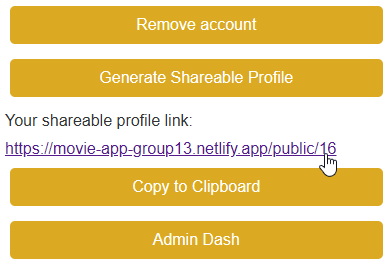
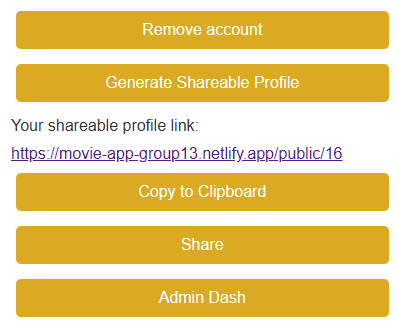
add: readme readme tbale content

diff --git a/frontend/src/pages/Profile.js b/frontend/src/pages/Profile.js
@@ -142,6 +142,7 @@ const Profile = () => {
     };
 
     const generateShareableLink = () => {
+        console.log("GENERATE CLICKED")
         if (!userDatabaseInfo[0]?.id) {
             alert("Unable to generate shareable link.");
             return;
@@ -162,6 +163,8 @@ const Profile = () => {
     };
         
     const saveShareableLinkToBackend = async () => {
+        console.log("SAVE CLICKED")
+
         const { user_id } = userDatabaseInfo[0] || {};
         if (!shareableLink || !user_id) return alert("Unable to save shared URL.");
     

diff --git a/README.md b/README.md
@@ -328,11 +328,18 @@ After generating the link, your sharable url will be shown.
 
 Any person with this link can see your public favorites (logged in or out).
 
+![Sharing Favorites Share - Generated](docs/assets/sharing-favorites/sharing-favorites-share.png)
+
+
+To add the profile to the shared URL's page, the share button must be clicked
+
 ![Sharing Favorites - Public](docs/assets/sharing-favorites/sharing-favorites-public.png)
 
 Public Profiles page:
 
-To view all public profiles list, visit the public profiles page.
+To view all public profiles list, visit the Shared URLs page, this can be accessed both logged in and out.
+
+![Sharing Favorites - Public](docs/assets/sharing-favorites/sharing-favorites-page.png)
 
 ## Optional feature - Admin page
 
@@ -424,6 +431,22 @@ This allowed us to deploy from one branch, and use team members forks and pull r
 
 ## Overall project management and progress
 
+The team stayed on progress by first having a kick off meeting where the following was decided (notes from meetings can be found in docs/note):
+
+1. Target grade
+2. Previous project experience and lessons learned
+3. Tech stack we will use
+4. Role assignments
+5. Project management risks and mitigations
+6. Weekly meeting schedule
+
+We decided a minimum of 3 weekly meetings were required along with a good use of web messaging and github communication.
+
+- Monday meeting: Talk through the weeks tasks and priorities and prepare for mentor meeting
+- Mentor meeting: Talk through progress, blockers and ensure all requirements are understood and worked towards effectively
+- Check up meeting: Progress report on the Monday meeting, and any additional resources are need
+
+This format worked well and kept our team moving forwards at a good pace with sufficient communication.
 
 
 
